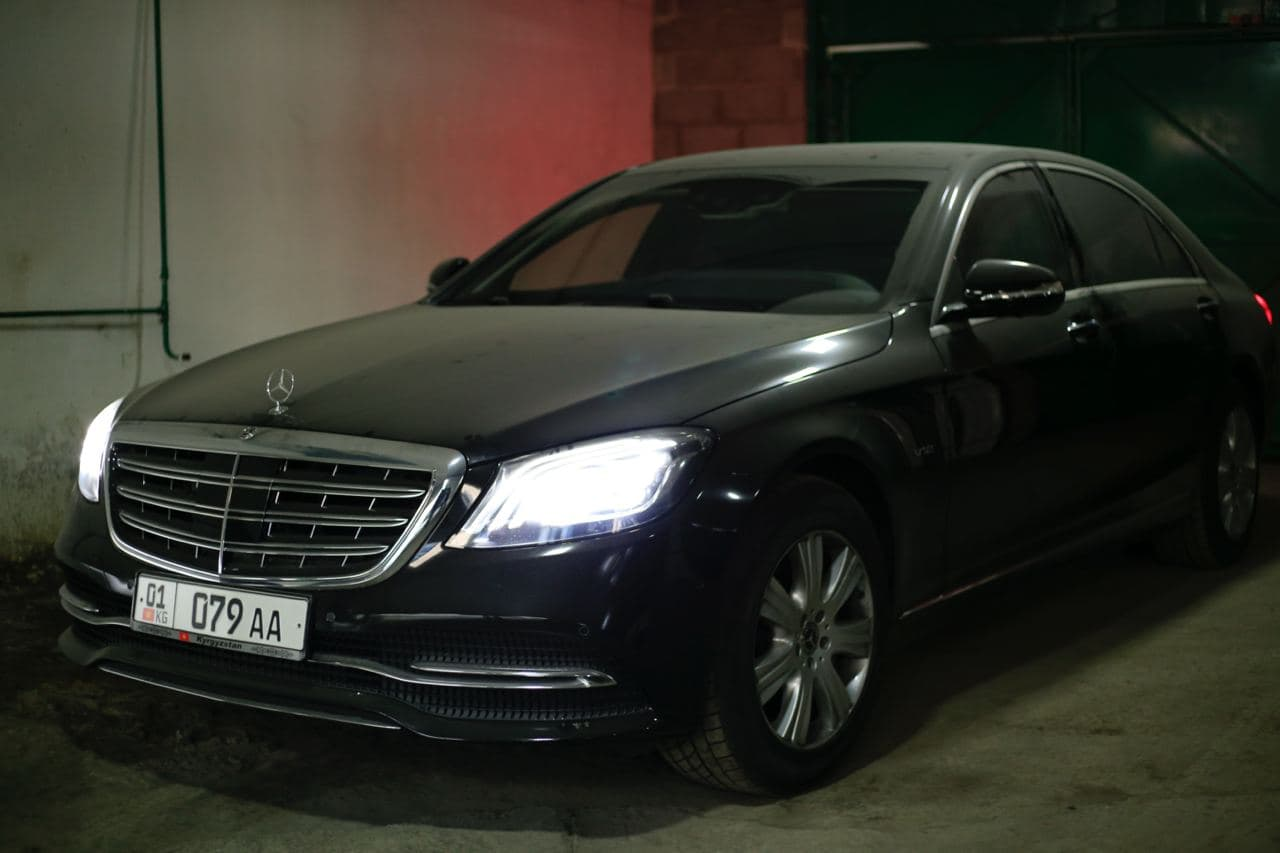
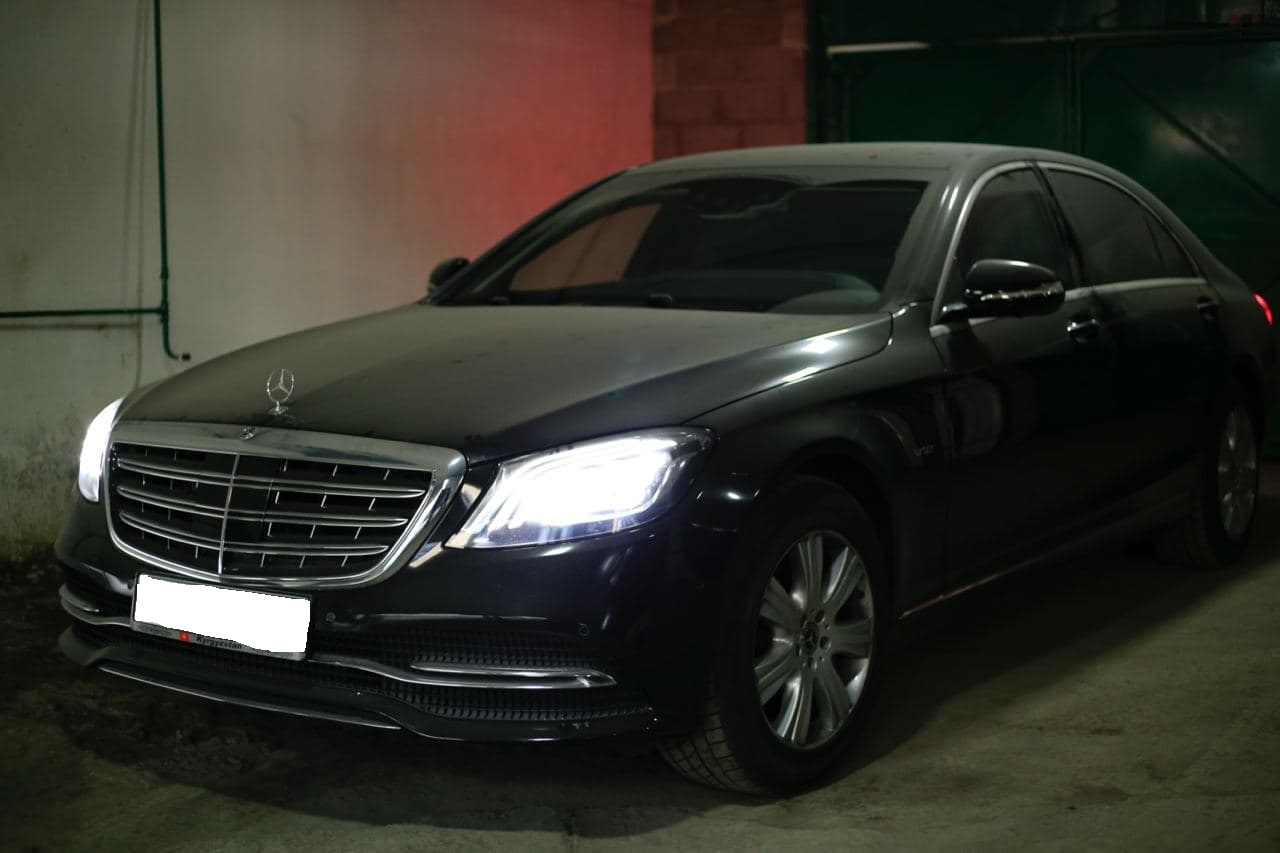
refactor: редактировать картинок, убрать гоз знаков автомобилей

Changed region(s): [[0.0938, 0.6706, 0.25, 0.762]]

diff --git a/src/components/Gallery/Gallery.js b/src/components/Gallery/Gallery.js
@@ -12,17 +12,19 @@ import mondeo from '../../images/garage/mondeo.jpg';
 import mondeo2 from '../../images/garage/mondeo2.jpg';
 import cadilac from '../../images/garage/cadilac.jpg';
 import cadilac2 from '../../images/garage/cadilac2.jpg';
-import bus from '../../images/garage/bus.jpg';
+import bus1 from '../../images/garage/bus.jpg';
 import backTheBuses from '../../images/garage/backTheBuses.jpg';
 import buses from '../../images/garage/buses.jpg';
 import track from '../../images/hard1.png';
 import miniBuses2 from '../../images/garage/miniBuses.jpg';
-
-
-import './Gallery.css';
 import ItemGallery from '../ItemGallery/ItemGallery';
+import './Gallery.css';
 
 function Gallery() {
+  const cars = 'легковой автомобиль'
+  const bus = 'Автобус'
+  const miniBuse = 'Микроавтобусы'
+  const parket = 'Внедорожник'
 
   return(
     <section className="gallery">
@@ -33,77 +35,77 @@ function Gallery() {
           <ItemGallery 
             image={bmw}
             alt='Марка BMW'
-            title='Марка BMW'
+            title={cars}
           />
           <ItemGallery 
             image={bmw2}
             alt='Марка BMW'
-            title='Марка BMW'
+            title={cars}
           />
           <ItemGallery 
             image={bmw3}
             alt='Марка BMW'
-            title='Марка BMW'
+            title={cars}
           />
           <ItemGallery 
-            image={track}
-            alt='Марка SCANIA'
-            title='Марка SCANIA'
+            image={bmw4}
+            alt='Марка bmw'
+            title={cars}
           />
           <ItemGallery 
             image={mercedes}
             alt='Марка MERCEDES-BENZ'
-            title='Марка MERCEDES-BENZ'
+            title={cars}
           />
           <ItemGallery 
             image={miniBuses}
             alt='Микроавтобусы'
-            title='Микроавтобусы'
+            title={miniBuse}
           />
           <ItemGallery 
             image={insideTheBus}
             alt='Атобусы'
-            title='Атобусы'
+            title={bus}
           />
           <ItemGallery 
             image={mondeo}
             alt='Марка FORD'
-            title='Марка FORD'
+            title={cars}
           />
           <ItemGallery 
             image={mondeo2}
             alt='Марка FORD'
-            title='Марка FORD'
+            title={cars}
           />
           <ItemGallery 
             image={cadilac}
             alt='Марка CADILLAC'
-            title='Марка CADILLAC'
+            title={cars}
           />
           <ItemGallery 
             image={cadilac2}
             alt='Марка CADILLAC'
-            title='Марка CADILLAC'
+            title={cars}
           />
           <ItemGallery 
-            image={bus}
+            image={bus1}
             alt='Автобус'
-            title='Автобус'
+            title={bus}
           />
           <ItemGallery 
             image={backTheBuses}
             alt='Автобус'
-            title='Автобус'
+            title={bus}
           />
           <ItemGallery 
             image={buses}
             alt='Микроавтобусы'
-            title='Микроавтобусы'
+            title={miniBuse}
           />
           <ItemGallery 
             image={miniBuses}
             alt='Атобусы'
-            title='Атобусы'
+            title={bus}
           />
         </ul>
       </main>
